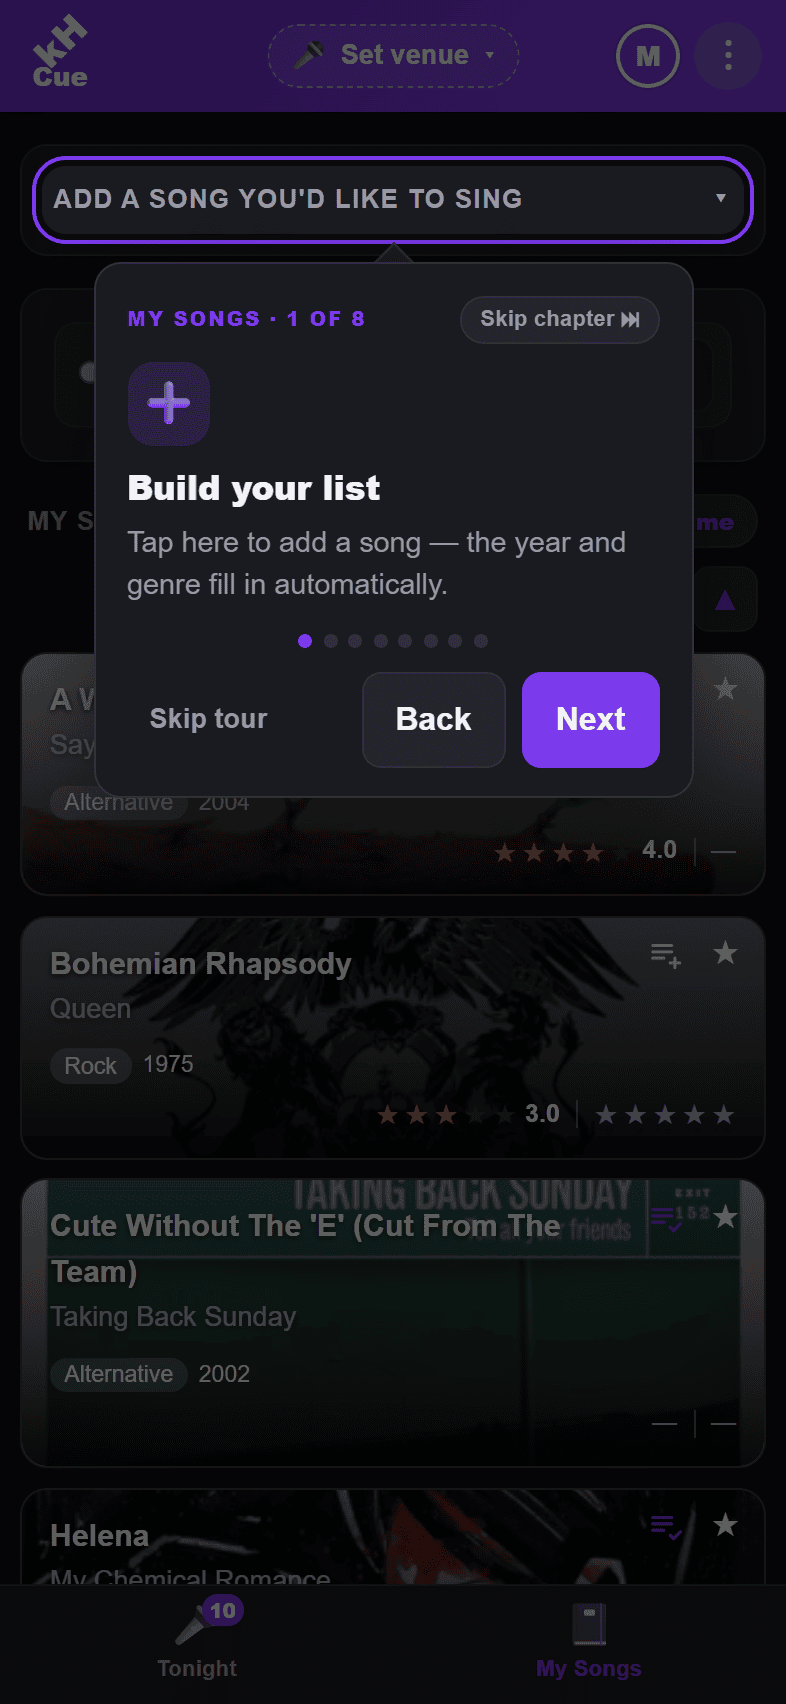
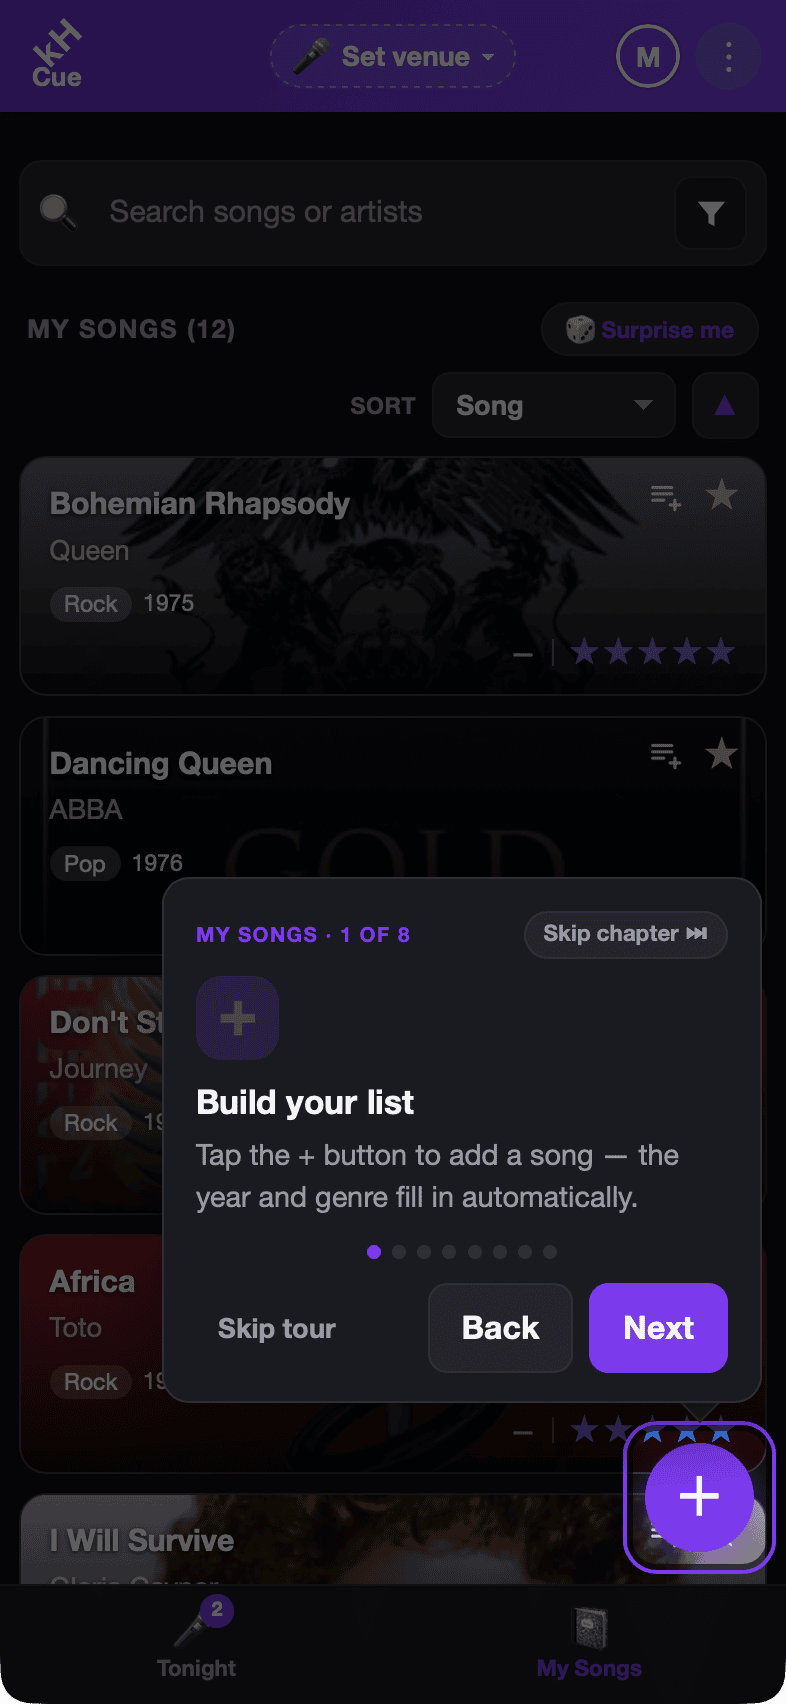
Fix the tour's spotlight on the My Songs add button
The "Build your list" card stopped pointing at anything when the add
control became a floating + FAB: khTutorial.position guarded on
`target.offsetParent === null`, which is ALSO null for every
position:fixed element, so a perfectly visible FAB read as hidden. All
20 retries failed and the step degraded to a centered card — the one
failure mode the fallback was designed to hide, so nothing looked
broken.

Test what actually matters instead: a client rect (covers display:none)
plus computed visibility/opacity, which correctly still rejects the FAB
while it's faded out behind a sheet.

Walking all 43 cards on-device confirms every anchored step spotlights;
the remaining centered cards are the ones with no anchor by design.

Also: the filter card's copy now says active filters ride along in the
search bar, which is where the sticky bar puts them, and the tutorial
screenshot is recaptured on the card that spotlights the FAB.

Claude-Session: https://claude.ai/code/session_01H3WcwHcym8Uzwd29HRbf81

diff --git a/KHost.Mobile/wwwroot/js/tutorial.js b/KHost.Mobile/wwwroot/js/tutorial.js
@@ -7,9 +7,21 @@ window.khTutorial = {
     _ctx: null,          // last positioned step, so a resize can re-lay-it-out
     _resizeBound: false,
 
+    // Is the target actually on screen? NOT `offsetParent === null`: that is also null for every position:fixed
+    // element, so it reads a perfectly visible FAB (My Songs' add button) as hidden and the step silently degrades
+    // to a centered card. Measure what we care about instead — does it paint, and is it visible? A rect covers
+    // display:none (0 x 0); opacity/visibility cover the controls that hide by fading out rather than unmounting,
+    // like that same FAB while a sheet is open.
+    _visible(el) {
+        const r = el.getBoundingClientRect();
+        if (r.width <= 0 || r.height <= 0) return false;
+        const style = getComputedStyle(el);
+        return style.visibility !== 'hidden' && Number(style.opacity) !== 0;
+    },
+
     position(hole, caret, tip, selector) {
         const target = document.querySelector(selector);
-        if (!target || target.offsetParent === null) return false;   // not rendered / hidden
+        if (!target || !this._visible(target)) return false;   // not rendered / hidden
 
         // Bring the target into view first. behavior:'instant' forces a synchronous scroll (overriding any CSS
         // smooth-scroll), so the rect we read next is the target's FINAL position — otherwise a mid-animation